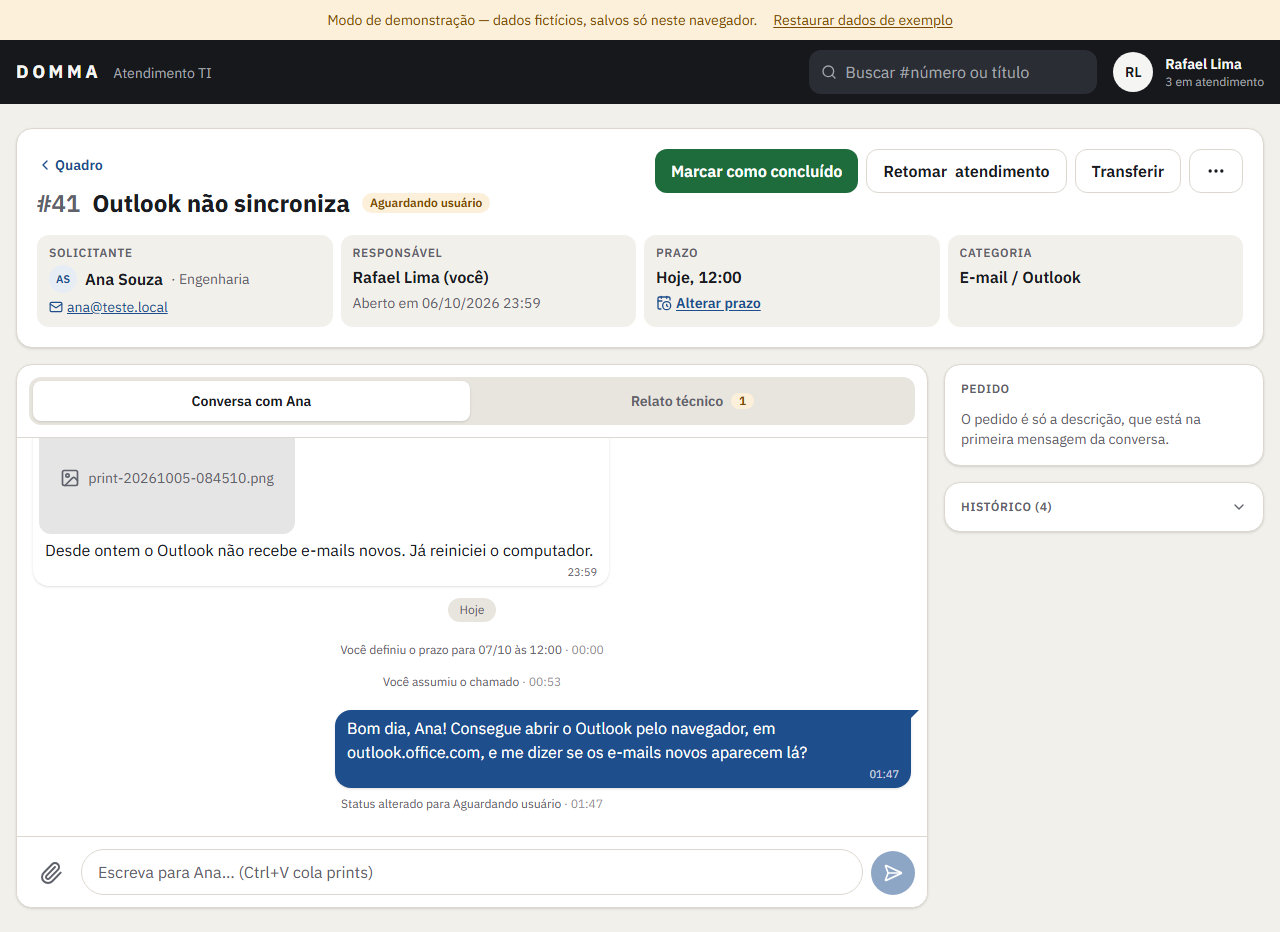
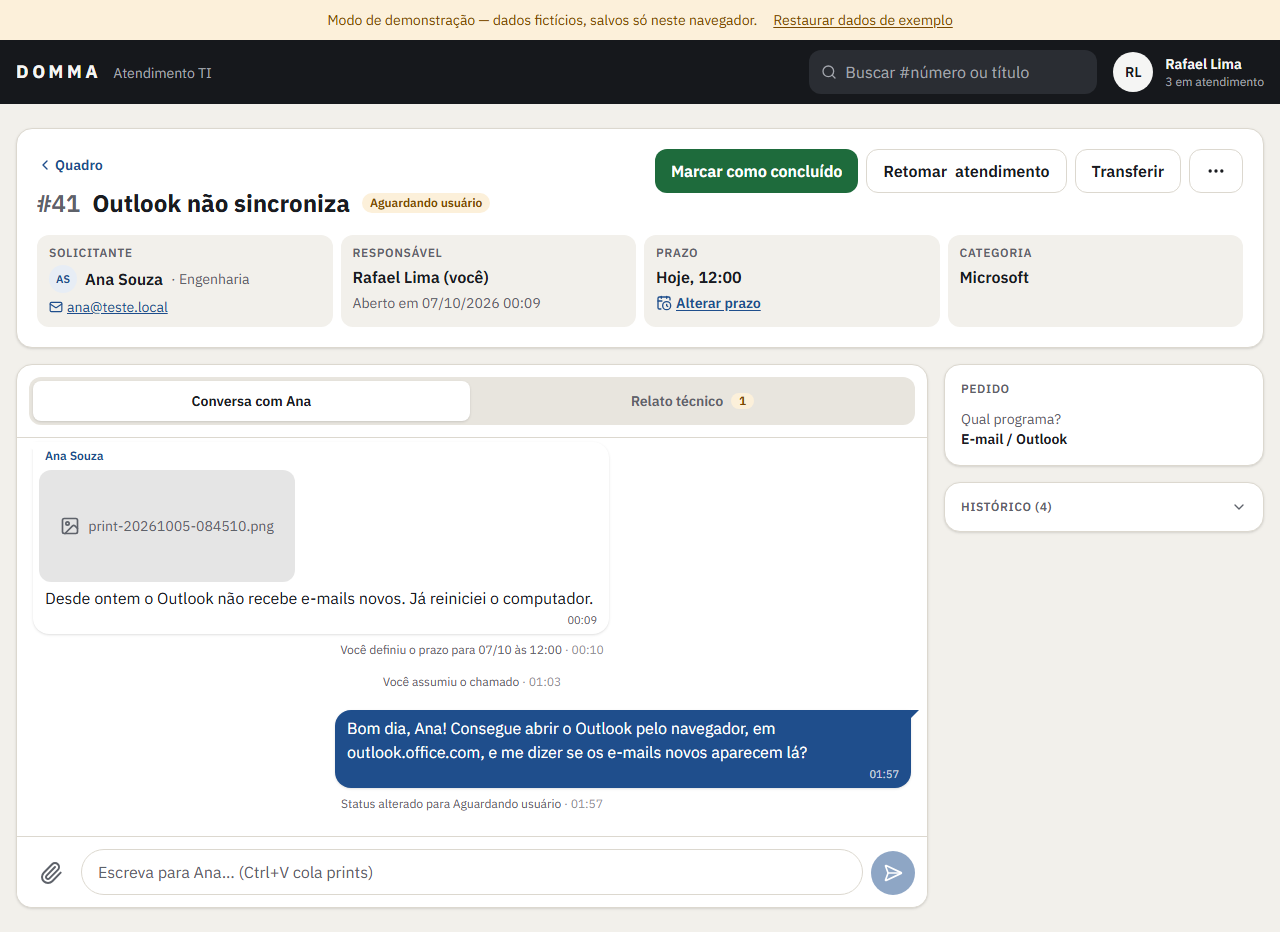
feat(categorias): unifica E-mail / Outlook e Teams em "Microsoft"
- seed: categoria Microsoft com o campo "Qual programa?" (E-mail / Outlook,
  Teams, Word/Excel/PowerPoint, OneDrive, Outro); 12 categorias
- ícone de "Sistemas da empresa" vira janela (não confunde com Microsoft)
- modo de demonstração (dados v7), teste pgTAP 003, go-live, banco e STATUS

diff --git a/apps/web/lib/dados/simulada/exemplos.ts b/apps/web/lib/dados/simulada/exemplos.ts
@@ -47,15 +47,8 @@ const LINHAS_CATEGORIAS: LinhaCategoria[] = [
     2,
     20,
   ],
-  [
-    "E-mail / Outlook",
-    "E-mail / Outlook",
-    "mail",
-    "Problemas para enviar, receber ou configurar e-mail",
-    4,
-    30,
-  ],
-  ["Teams", "Teams", "message-square", "Chamadas, reuniões, chats e equipes", 4, 40],
+  // "E-mail / Outlook" e "Teams" unificados em "Microsoft" (pedido do dono, 2026-10-07).
+  ["Microsoft", "Microsoft", "grid-2x2", "E-mail, Outlook, Teams, Word, Excel e OneDrive", 4, 30],
   [
     "Computador ou notebook",
     "Computador ou notebook",
@@ -83,7 +76,7 @@ const LINHAS_CATEGORIAS: LinhaCategoria[] = [
   [
     "Sistemas da empresa",
     "Sistemas da empresa",
-    "layout-grid",
+    "app-window",
     "Erro ou dúvida em sistemas internos",
     8,
     80,
@@ -137,6 +130,16 @@ function categoria(nome: string): Categoria {
 type LinhaCampo = [string, string, string, TipoCampo, boolean, string[], string | null, number];
 
 const CAMPOS_ESPECIFICOS: LinhaCampo[] = [
+  [
+    "Microsoft",
+    "programa",
+    "Qual programa?",
+    "selecao",
+    true,
+    ["E-mail / Outlook", "Teams", "Word, Excel ou PowerPoint", "OneDrive", "Outro"],
+    null,
+    10,
+  ],
   [
     "Acesso, senha e bloqueio de conta",
     "acesso_a",
@@ -315,6 +318,8 @@ interface ChamadoExemplo {
   /** Minutos até o prazo; ausente = a TI ainda não definiu (docs/adr/0009). */
   prazoEm?: number;
   descricao: string;
+  /** Respostas extras do formulário (além da descrição). */
+  respostas?: Record<string, string>;
   motivoCancelamento?: string;
 }
 
@@ -457,7 +462,8 @@ const CHAMADOS_EXEMPLO: ChamadoExemplo[] = [
   {
     id: 41,
     titulo: "Outlook não sincroniza",
-    categoria: "E-mail / Outlook",
+    categoria: "Microsoft",
+    respostas: { programa: "E-mail / Outlook" },
     solicitante: ANA,
     responsavel: RAFAEL,
     status: "aguardando_usuario",
@@ -482,7 +488,8 @@ const CHAMADOS_EXEMPLO: ChamadoExemplo[] = [
   {
     id: 43,
     titulo: "Teams sem áudio nas chamadas",
-    categoria: "Teams",
+    categoria: "Microsoft",
+    respostas: { programa: "Teams" },
     solicitante: CARLA,
     responsavel: null,
     status: "pendente",
@@ -528,7 +535,7 @@ export function gerarChamadosExemplo(agora: Date): Chamado[] {
       responsavelId: e.responsavel,
       status: e.status,
       prioridade: "media",
-      respostasForm: { descricao: e.descricao },
+      respostasForm: { ...e.respostas, descricao: e.descricao },
       // Prazo futuro em horas úteis; vencidos e "vence em menos de 1 h" ficam exatos.
       prazoSla:
         e.prazoEm === undefined

diff --git a/apps/web/lib/dados/simulada/simulada.test.ts b/apps/web/lib/dados/simulada/simulada.test.ts
@@ -21,12 +21,12 @@ describe("dados de exemplo", () => {
     }
   });
 
-  it("têm as 13 categorias do seed com campo descrição (menos Novo colaborador e Desligamento)", () => {
-    expect(CATEGORIAS).toHaveLength(13);
+  it("têm as 12 categorias do seed com campo descrição (menos Novo colaborador e Desligamento)", () => {
+    expect(CATEGORIAS).toHaveLength(12); // Microsoft une E-mail/Outlook e Teams
     const comDescricao = new Set(
       CAMPOS_FORM.filter((c) => c.chave === "descricao").map((c) => c.categoriaId),
     );
-    expect(comDescricao.size).toBe(11);
+    expect(comDescricao.size).toBe(10);
   });
 
   it("chamados com responsável seguem as regras do banco (ADR 0005)", async () => {

diff --git a/apps/web/lib/dados/simulada/armazenamento.ts b/apps/web/lib/dados/simulada/armazenamento.ts
@@ -16,7 +16,7 @@ import { gerarChamadosExemplo, gerarConversasExemplo, gerarHistoricoExemplo } fr
 import { OUTROS_PERFIS_EXEMPLO, USUARIOS_SIMULADOS } from "./usuarios";
 
 // Mude a versão quando o formato ou os dados de exemplo mudarem: o navegador recomeça do zero.
-const VERSAO = 6;
+const VERSAO = 7; // 7: categoria Microsoft (une E-mail/Outlook e Teams)
 const CHAVE = `central-chamados:simulado:v${VERSAO}`;
 const CANAL = "central-chamados:simulado";
 

diff --git a/apps/web/components/ui/IconeCategoria.tsx b/apps/web/components/ui/IconeCategoria.tsx
@@ -1,6 +1,8 @@
 import {
+  AppWindow,
   Download,
   Ellipsis,
+  Grid2x2,
   KeyRound,
   Laptop,
   LayoutGrid,
@@ -25,6 +27,8 @@ const ICONES: Record<string, LucideIcon> = {
   printer: Printer,
   smartphone: Smartphone,
   "layout-grid": LayoutGrid,
+  "grid-2x2": Grid2x2,
+  "app-window": AppWindow,
   download: Download,
   "user-plus": UserPlus,
   "user-minus": UserMinus,

diff --git a/docs/fases/STATUS.md b/docs/fases/STATUS.md
@@ -32,6 +32,7 @@ Mais recente primeiro. Uma linha por sessão que alterou o projeto.
 
 | Data | O que mudou |
 |---|---|
+| 2026-10-07 | Categorias: **"E-mail / Outlook" e "Teams" unificadas em "Microsoft"** (pedido do dono), com o campo obrigatório "Qual programa?" (E-mail / Outlook · Teams · Word, Excel ou PowerPoint · OneDrive · Outro). Só no `seed.sql` (banco da nuvem ainda não existe) e no modo de demonstração (dados de exemplo v7). Ficam 12 categorias. Ícone de "Sistemas da empresa" trocado (janela) para não confundir com o da Microsoft. Teste pgTAP 003 ampliado. |
 | 2026-10-07 | **Arrastar cartões no celular/tablet** (P-029, ADR 0010): `@dnd-kit/core` no lugar do arrastar nativo — mouse (6 px), dedo (segurar ~0,25 s) e teclado (espaço + setas pulando de coluna), "fantasma" que acompanha o dedo, rolagem automática só na borda e devagar, avisos de leitor de tela em português. Regras iguais (`acaoDoArraste`). Novo `e2e/arrastar.spec.ts` (mouse e toque real). |
 | 2026-10-07 | **UI/UX da área técnica revisada** (pedido do dono). Quadro: coluna **Cancelados** (últimos 7 dias; arrastar para ela pede o motivo), Concluídos e Cancelados estreitas com cartões de uma linha, raias com fundo próprio, legenda "Cor do número = prazo", prazo com rótulo, "Com Rafael" / "Esperando Ana há 2h" nos cartões, "Próximo da fila" numa linha; saiu a barra de proporção de prazos. Tela do chamado: cabeçalho-resumo (ações + solicitante, responsável, prazo, categoria), Devolver/Cancelar em "⋯ Mais ações", conversa na altura da tela, Pedido só com o que não está no chat, Histórico recolhível, eventos do sistema em texto discreto. `ui-ux.md`, guia e prints. 196 testes + 10 E2E. Sem mudança em banco/API. |
 | 2026-10-07 | **Prazo definido pela TI** (pedido do dono, ADR 0009): chamado nasce sem prazo; qualquer técnico define (data e hora, com atalhos) e altera com motivo, no cartão PRAZO da tela de atendimento; solicitante vê a previsão e o motivo e é avisado. Migration 0019 + teste pgTAP 006; `POST /chamados/{id}/prazo`, erro `PRAZO_INVALIDO`; sai a previsão automática (rota e telas de abertura). Quadro: "Sem prazo" em cinza, ordem com prazo primeiro e depois o mais antigo, filtro "Sem prazo". Testes: API 101, front 196 + 10 E2E. Vitest com `testTimeout` 15 s (primeiro teste de cada tela passava de 5 s na suíte completa). P-010 e P-026 obsoletas. |

diff --git a/docs/banco.md b/docs/banco.md
@@ -35,7 +35,7 @@ erDiagram
 | `configuracoes` | Parâmetros: fuso, expediente (08–18), limites de anexo, texto da resposta do bot | `publico = true` → qualquer usuário logado lê; o resto só a TI |
 | `feriados` | Dias sem expediente (2026–2027 no seed: nacionais, RJ e Rio) | `ativo = false` em vez de apagar. **Cadastrar 2028 antes do fim de 2027** (P-008) |
 | `areas` | Áreas que atendem (Fase 1: só TI) | — |
-| `categorias` | Assuntos, `nome_curto` e `icone` do portal | 13 no seed. `sla_horas` **sem uso** desde a 0019 (prazo é da TI — ADR 0009) |
+| `categorias` | Assuntos, `nome_curto` e `icone` do portal | 12 no seed ("Microsoft" une E-mail/Outlook e Teams desde 2026-10-07). Depois do go-live, mudar categoria = **migration nova** (o seed só roda na instalação). `sla_horas` **sem uso** desde a 0019 (prazo é da TI — ADR 0009) |
 | `campos_form` | Campos do formulário dinâmico por categoria (texto, texto longo, número, data, seleção, múltipla, sim/não) | `chave` estável (as respostas são guardadas por ela) |
 
 ### Pessoas

diff --git a/docs/go-live.md b/docs/go-live.md
@@ -28,12 +28,12 @@ supabase db push            # aplica as 18 migrations
   `.github/workflows/migrations.yml` (passo 9).
 
 ## 3. Dados iniciais (P-014)
-O `db push` **não roda seed**. O `supabase/seed.sql` (área TI, 13 categorias, formulários, feriados até 2027,
+O `db push` **não roda seed**. O `supabase/seed.sql` (área TI, 12 categorias, formulários, feriados até 2027,
 configurações) foi escrito para poder rodar mais de uma vez (`on conflict do nothing`):
 ```bash
 psql "<connection string do projeto, usuário postgres>" -f supabase/seed.sql
 ```
-- [ ] Conferir: `select count(*) from public.categorias;` → 13.
+- [ ] Conferir: `select count(*) from public.categorias;` → 12.
 - [ ] **Nunca** rodar o `seed.dev.sql` na nuvem (usuários de teste com senha conhecida).
 - [ ] Conferir: `select valor from public.configuracoes where chave = 'dominios_permitidos';` → `["dommainc.com.br"]`
   (sem `teste.local`).
